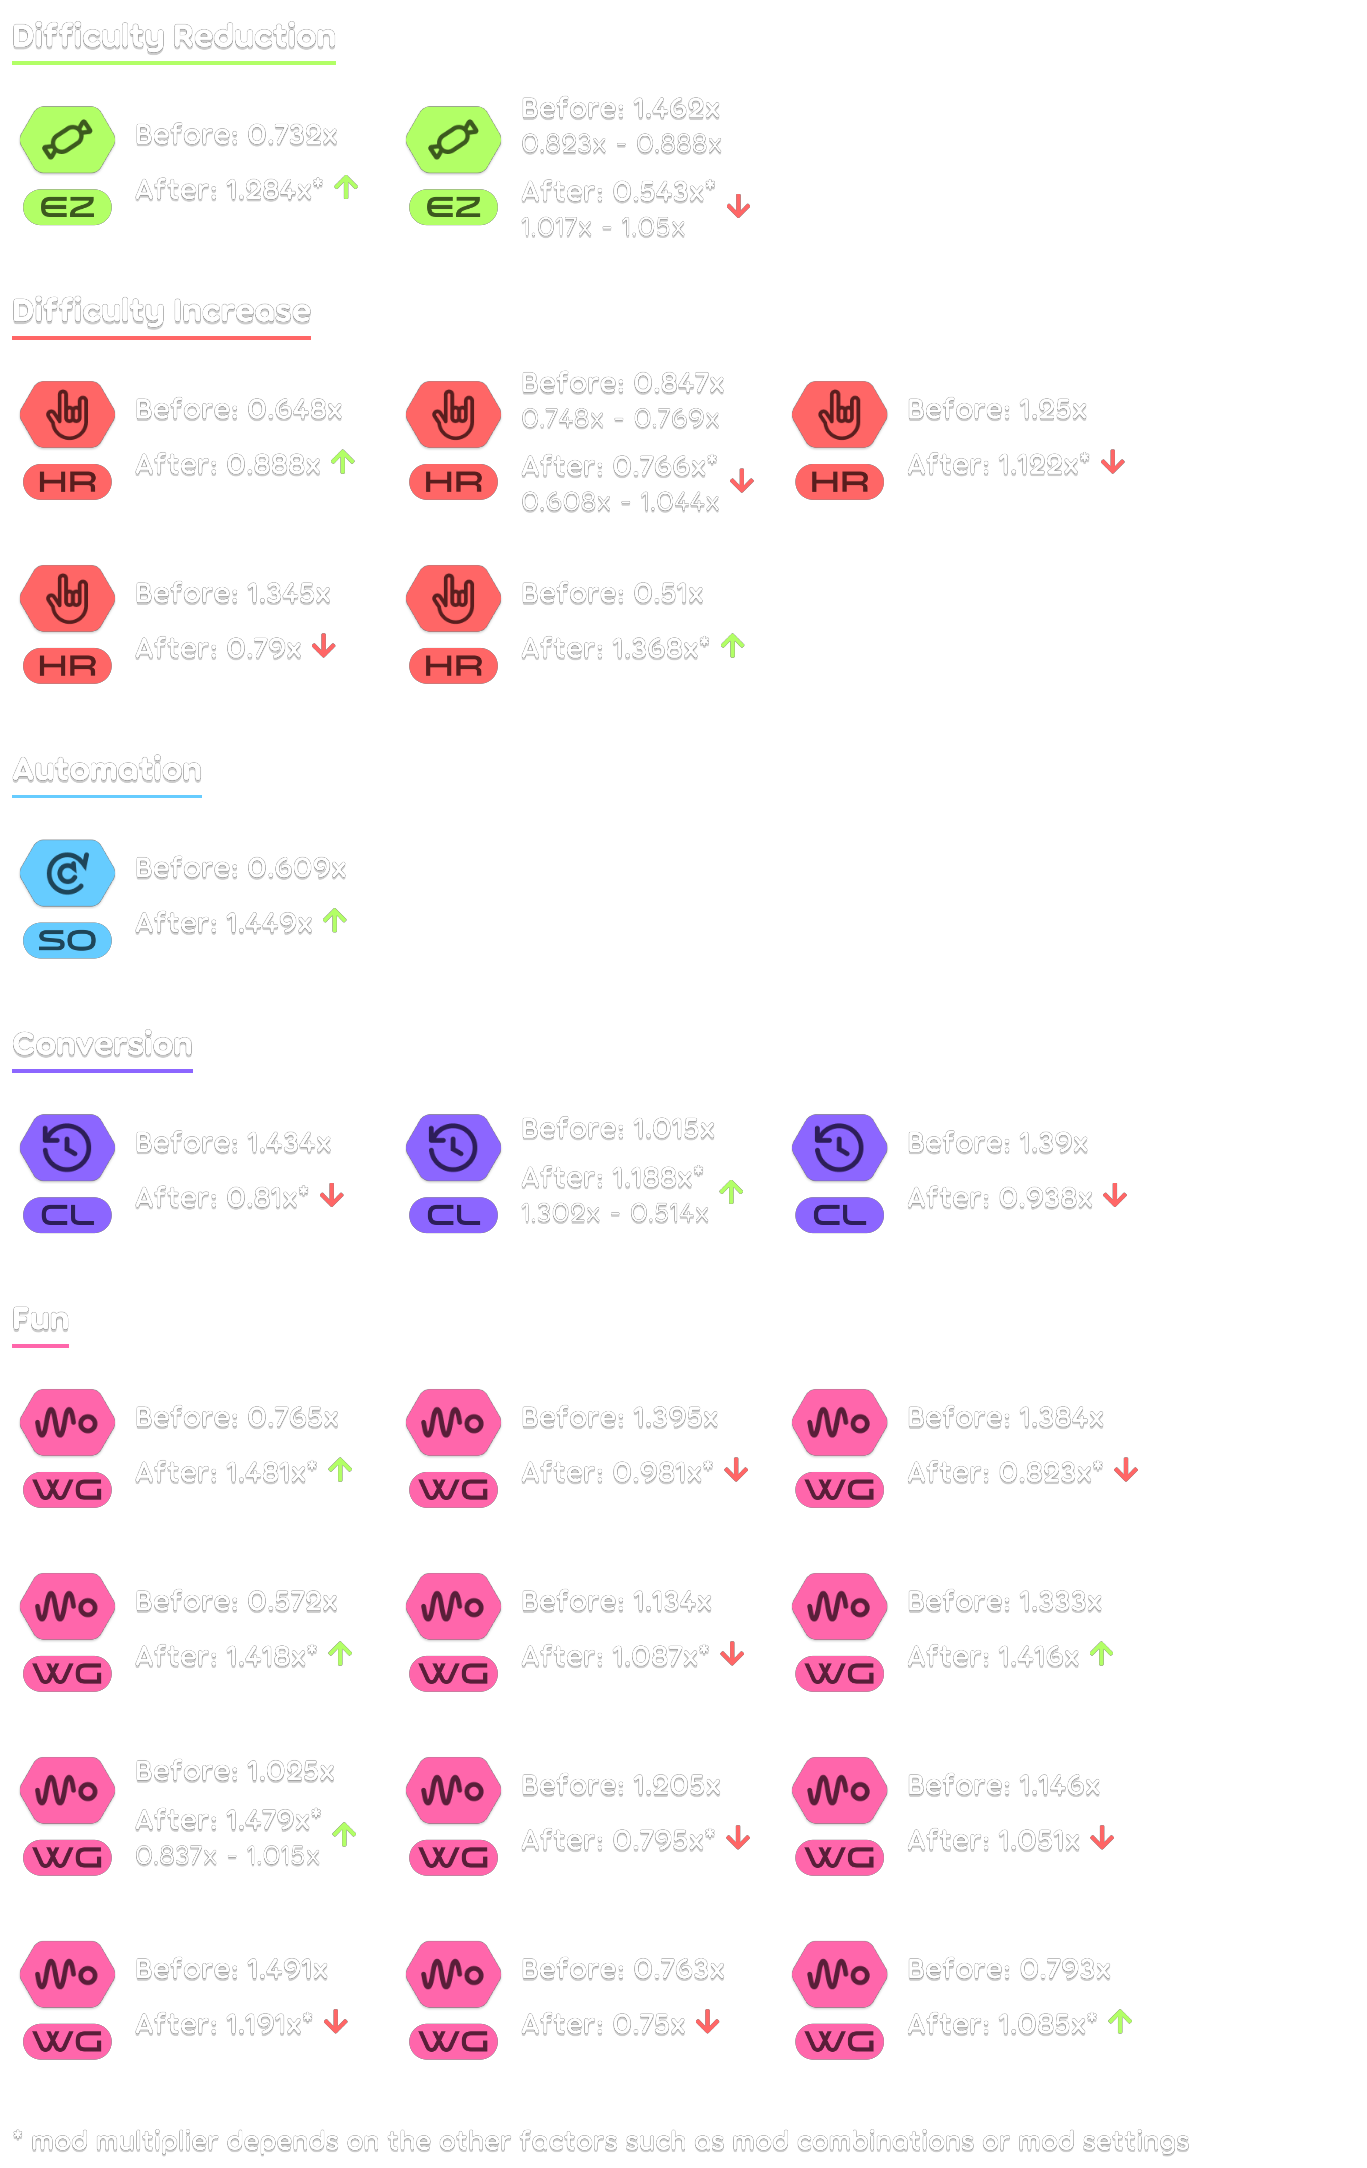
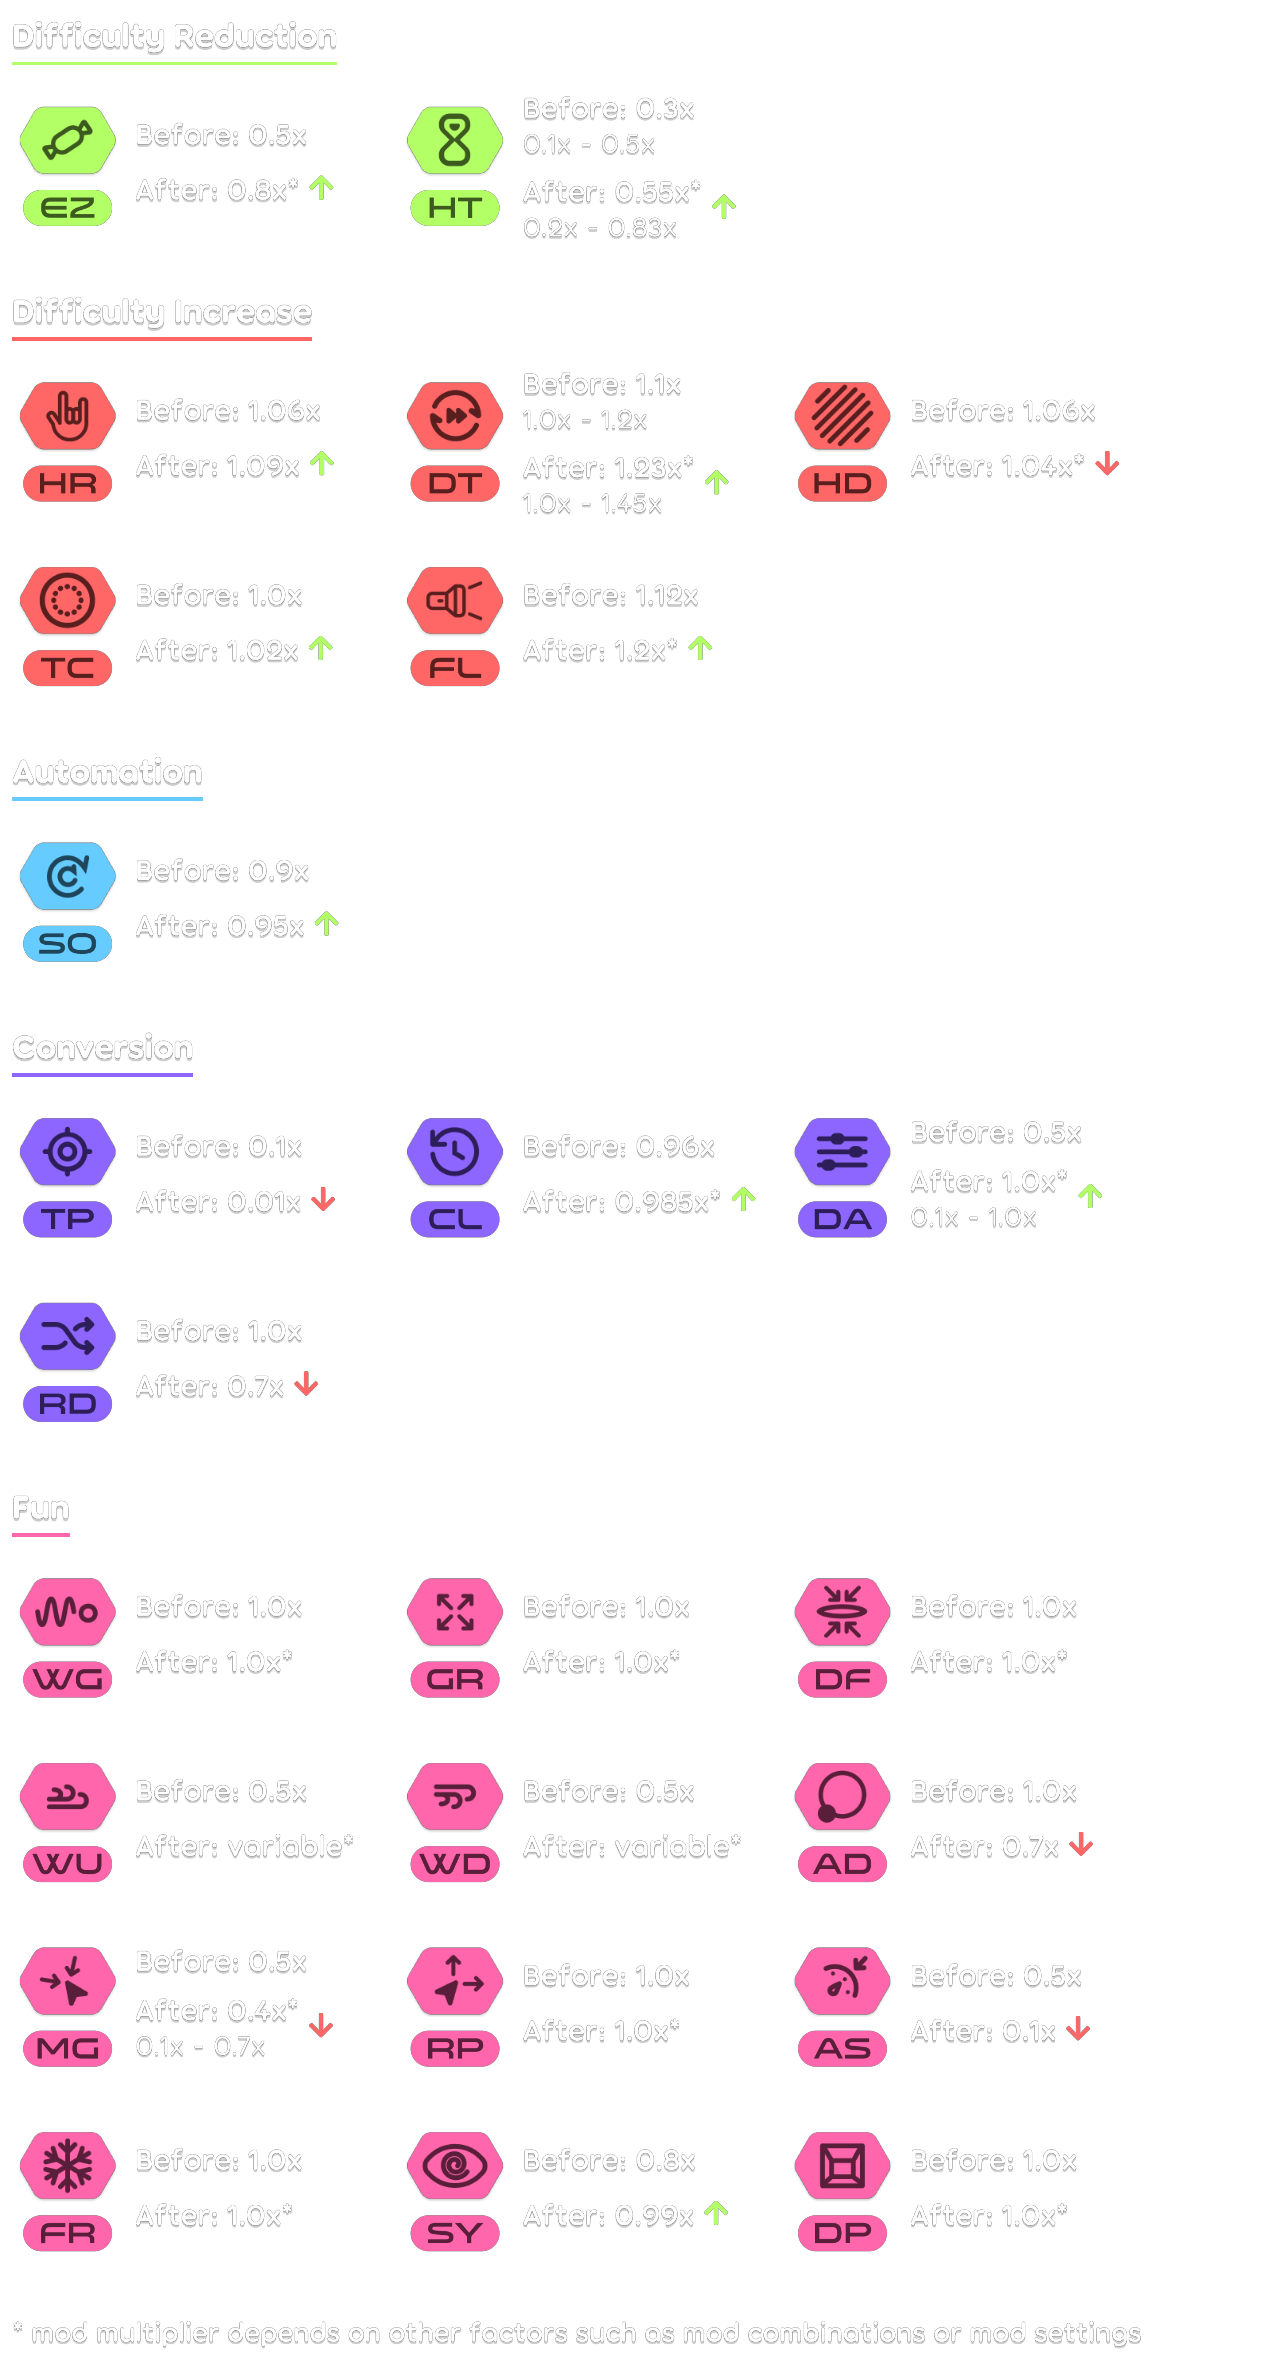
Replace with real info

diff --git a/news/2026/2026-04-18-mod-multipliers-survey-results.md b/news/2026/2026-04-18-mod-multipliers-survey-results.md
@@ -24,39 +24,93 @@ As a result of these changes, osu!(stable) scores get the ["Classic" mod (CL)](w
 
 Following this survey, we have updated the Classic mod multiplier for **all** game modes. All other mod multiplier changes in this newspost will be for the **osu!** game mode only.
 
-<!-- todo: update osu! CL multiplier with real value -->
-
 | Game mode | Before | After |
 | :-- | :-- | :-- |
-| ![](/wiki/shared/mode/osu.png) osu! | 0.96x | **x.xxx** |
+| ![](/wiki/shared/mode/osu.png) osu! | 0.96x | **0.985x*** |
 | ![](/wiki/shared/mode/taiko.png) osu!taiko | 0.96x | **1.0x** |
 | ![](/wiki/shared/mode/catch.png) osu!catch | 0.96x | **1.0x** |
 | ![](/wiki/shared/mode/mania.png) osu!mania | 0.96x | **1.0x** |
 
-## Survey results
+*when "Apply classic notelock" is disabled, this is further reduced to 0.96x
 
-<!-- todo: replace with image of real multipliers -->
+## Survey results
 
 ![](/wiki/shared/news/2026-04-18-mod-multipliers-survey-results/mod-multipliers.png)
 
 Alongside the changes shown above, there are also mods with multiplier changes which aren't a simple number tweak. osu!(lazer) adds a series of new fun mods for all to enjoy, and some of these mods' difficulty is reduced when paired with other mods. As a result, these cases will have different multipliers depending on what other mods are enabled:
 
-<!-- todo: replace with non-placeholders -->
+### Hidden (HD)
 
-### Placeholder Mod (PM)
-
-Assuming no other mods, the new multipliers for PM are as follows:
+Assuming no other mods, multipliers for HD are as follows:
 
 - Before: 1.04x
-- After: **1.02x**
+- After: **1.02x** (when "Only fade approach circles" is enabled, this is further reduced by 0.02x)
 
-However, due to how this mod interacts with the Hidden (HD) mod, the multiplier will be further reduced to 1.01x when paired alongside HD.
+The multiplier is further reduced by 0.02x if any of the mods are enabled, as they provide timing information HD typically lacks:
+
+- Wiggle (WG)
+- Grow (GR)
+- Deflate (DF)
+- Repel (RP)
+- Depth (DP)
+
+Finally, any mod multiplier for HD is surrendered if Blinds (BL) is enabled.
+
+### Flashlight (FL)
+
+Assuming no other mods, multipliers for FL are as follows:
+
+Before: 1.12x
+After: 1.2x
+
+The multiplier is modified in these cases:
+
+- Reduced by 0.02x per 0.1 increase to the "Flashlight size" setting
+- Reduced to 1.04x if the "Change size based on combo" setting is disabled
+- Reduced to 1.1x if Freeze Frame (FR) is enabled
+
+### Deflate (DF)
+
+Assuming no other mods and default settings, the multiplier for DF remains at 1.0x.
+
+DF's multiplier is reduced by 0.02x per step in the "Starting size" setting.
+
+### Difficulty Adjust (DA)
+
+The old multiplier for DA was a flat 0.5x.
+
+The new multiplier is always variable, and scales by how far each map parameter (CS, HP, OD and AR) are from their original value.
+
+The multiplier begins at 1.0x, and decreases by 0.05x per 0.1 change on each parameter (to a minimum of 0.1x).
+
+#### Example
+
+A beatmap is:
+
+- CS 4
+- HP 5
+- OD 9
+- AR 9.2
+
+DA is enabled with:
+
+- CS 3.5
+- HP 5
+- OD 9
+- AR 9.5
+
+In this case, the CS was decreased and the AR was increased. This works out like so:
+
+- CS penalty = 1.0 - 0.5 * (4 - 3.5) = 0.75
+- AR penalty = 1.0 - 0.5 * (9.5 - 9.2) = 0.85
+
+These penalties are then multiplied together to create the final multiplier, which works out as 0.6375x.
+
+Note that this applies just the same if the parameters are _increased_ - if this example was CS 4.5 instead of CS 3.5 the end multiplier would be the exact same.
 
 ---
 
-<!-- todo: replace with real results link -->
-
-For those who are interested in doing their own interpretations of the survey results, you can see an anonymised view of the results [in this page](https://osu.ppy.sh).
+For those who are interested in doing their own interpretations of the survey results, you can see an anonymised view of the results [in this page](https://docs.google.com/spreadsheets/d/e/2PACX-1vRXW4VAKOx2_gBPQ8V-s0KR2p1O1AP3dt05bg7oDkNQRWo2B0WQ-onIZLahJn3xbRZ1m1U7tfUtANbQ/pubhtml).
 
 Once again, many thanks to ::{ flag=PL }:: [Maklovitz](https://osu.ppy.sh/users/9217626), ::{ flag=FI }:: [Nyanaro](https://osu.ppy.sh/users/4157611), ::{ flag=UA }:: [SomeMelGuy](https://osu.ppy.sh/users/8706541), ::{ flag=RU }:: [StanR](https://osu.ppy.sh/users/7217455), ::{ flag=GB }:: [tsunyoku](https://osu.ppy.sh/users/11315329) and ::{ flag=FR }:: [Zyf](https://osu.ppy.sh/users/7475179), who were involved in organising the survey, programming the spreadsheet and interpreting the results.
 